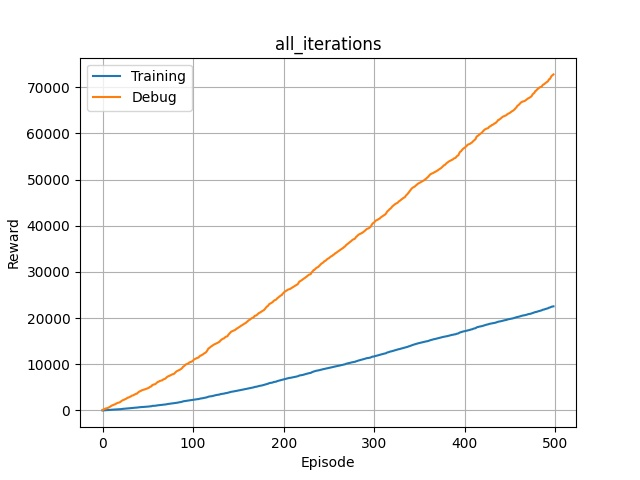
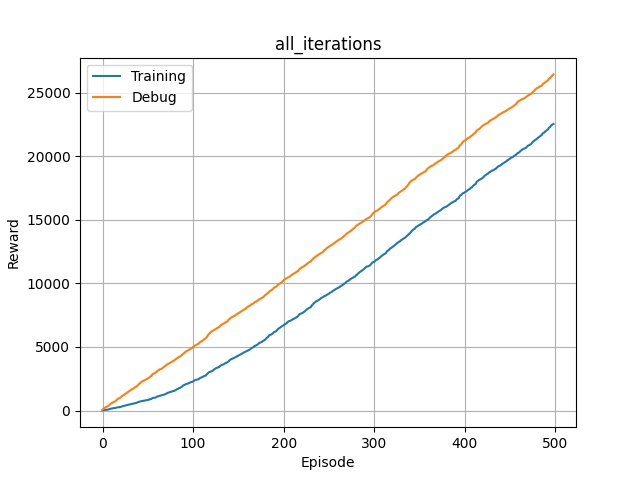
dlcf@home

diff --git a/model10.py b/model10.py
@@ -1,0 +1,125 @@
+import math
+
+
+def reward_function(params):
+
+    # Read all input parameters
+    all_wheels_on_track = params['all_wheels_on_track']
+    x = params['x']
+    y = params['y']
+    distance_from_center = params['distance_from_center']
+    is_left_of_center = params['is_left_of_center']
+    heading = params['heading']
+    progress = params['progress']
+    steps = params['steps']
+    speed = params['speed']
+    steering_angle = params['steering_angle']
+    track_width = params['track_width']
+    waypoints = params['waypoints']
+    closest_waypoints = params['closest_waypoints']
+    is_offtrack = params['is_offtrack']
+
+    reward = 1
+
+    #
+    # distance reward
+    distance_reward = 1e-3
+
+    # Calculate 3 markers that are at varying distances away from the center line
+    marker_1 = 0.1 * track_width
+    marker_2 = 0.25 * track_width
+    marker_3 = 0.5 * track_width
+    # Give higher reward if the car is closer to center line and vice versa
+    if distance_from_center <= marker_1:
+        distance_reward = 1.0
+    elif distance_from_center <= marker_2:
+        distance_reward = 0.5
+    elif distance_from_center <= marker_3:
+        distance_reward = 0.1
+    else:
+        reward = 1e-3  # likely crashed/ close to off track
+
+    reward += distance_reward
+
+    #
+    # direction reward
+    direction_reward = 1e-3
+    prev_point = waypoints[closest_waypoints[0]]
+    next_point = waypoints[closest_waypoints[1]]
+    i = divmod(closest_waypoints[1] + 1, len(waypoints))[1]
+    next_next_point = waypoints[i]
+
+    track_direction = math.atan2(next_point[1] - prev_point[1], next_point[0] - prev_point[0])
+    track_direction = math.degrees(track_direction)
+    track_direction_projected = math.atan2(next_next_point[1] - prev_point[1], next_next_point[0] - prev_point[0])
+    track_direction_projected = math.degrees(track_direction_projected)
+
+    direction_diff = abs(track_direction - heading)
+    direction_diff_projected = track_direction_projected - track_direction
+    if direction_diff > 180:
+        direction_diff = 360 - direction_diff
+
+    if direction_diff > 30:
+        direction_reward = -0.5 * reward
+    else:
+        if steering_angle == 0:
+            direction_reward = reward
+        elif 0 >= steering_angle > direction_reward and direction_reward <= 0:
+            direction_reward = 1.5 * reward
+        elif 0 < steering_angle < direction_reward and direction_reward > 0:
+            direction_reward = 1.5 * reward
+        else:
+            direction_reward = -0.5 * reward
+    reward += direction_reward
+
+    #
+    # speed reward
+    speed_reward = 1e-3  # default against 2 m/s
+    if closest_waypoints[0] < 21:
+        speed_reward = divmod(speed, 3)[1]
+    elif closest_waypoints[0] < 44:
+        speed_reward = divmod(speed, 1.5)[1]
+    elif closest_waypoints[0] < 50:
+        speed_reward = divmod(speed, 2)[1]
+    elif closest_waypoints[0] < 56:
+        speed_reward = divmod(speed, 1.5)[1]
+    elif closest_waypoints[0] < 66:
+        speed_reward = divmod(speed, 2)[1]
+    elif closest_waypoints[0] < 71:
+        speed_reward = divmod(speed, 1.5)[1]
+    elif closest_waypoints[0] < 80:
+        speed_reward = divmod(speed, 2)[1]
+    elif closest_waypoints[0] < 87:
+        speed_reward = divmod(speed, 1.5)[1]
+    elif closest_waypoints[0] < 104:
+        speed_reward = divmod(speed, 2)[1]
+    elif closest_waypoints[0] < 112:
+        speed_reward = divmod(speed, 1.5)[1]
+    elif closest_waypoints[0] < 117:
+        speed_reward = divmod(speed, 2)[1]
+    else:
+        pass
+
+    reward += speed_reward
+
+    #
+    # steps reward
+    track_length = 17.6
+    standard_speed = 1.2
+    step_reward = 1e-3
+    s = divmod(standard_speed * steps / 15, track_length)[1]
+    percentage_projected = 1e-3
+    try:
+        percentage_projected = 100 * s / track_length
+    except:
+        pass
+    if percentage_projected >= progress:
+        step_reward = 1
+    else:
+        step_reward = 1e-1
+    reward += step_reward
+
+    if not all_wheels_on_track:
+        reward = 1e-3
+
+    return float(reward)

diff --git a/model6_clone.py b/model6_clone.py
@@ -3,9 +3,9 @@ import math
 
 def reward_function(params):
     # Define constants
-    standard_speed = 1.5
-    optimal_speed = 2.0
-    fastest_speed = 2.5
+    standard_speed = 1.8
+    optimal_speed = 2.3
+    fastest_speed = 2.8
     track_length = 17.71
     laps = 3
 
@@ -24,6 +24,7 @@ def reward_function(params):
     waypoints = params['waypoints']
     closest_waypoints = params['closest_waypoints']
     is_offtrack = params['is_offtrack']
+    is_left_of_center = params['is_left_of_center']
 
     ## Define the default reward ##
     reward = 1
@@ -35,7 +36,7 @@ def reward_function(params):
     reward += distance_reward * DISTANCE_MULTIPLE
 
     ## Reward if speed is close to optimal speed ##
-    SPEED_DIFF_NO_REWARD = 1
+    SPEED_DIFF_NO_REWARD = 1.3
     SPEED_MULTIPLE = 2
     speed_diff = abs(optimal_speed - speed)
     if speed_diff <= SPEED_DIFF_NO_REWARD:
@@ -62,13 +63,8 @@ def reward_function(params):
     reward += steps_reward
 
     # Zero reward if obviously wrong direction (e.g. spin)
-    steps_forward = 2
-    pp = len(waypoints) + closest_waypoints[0] - steps_forward + 1
-    pp = divmod(pp, len(waypoints))[1]
-    np = closest_waypoints[0] + steps_forward + 1
-    np = divmod(np, len(waypoints))[1]
-    prev_point = waypoints[pp]
-    next_point = waypoints[np]
+    next_point = waypoints[closest_waypoints[1]]
+    prev_point = waypoints[closest_waypoints[0]]
 
     # Calculate the direction in radius, arctan2(dy, dx), the result is (-pi, pi) in radians
     track_direction = math.atan2(next_point[1] - prev_point[1], next_point[0] - prev_point[0])
@@ -87,11 +83,11 @@ def reward_function(params):
     if abs(steering_angle) > 15:
         reward = 1e-3
     else:
-        reward += math.cos(math.radians(steering_angle)) * 2
+        reward += math.cos(math.radians(steering_angle))
 
     # Zero reward of obviously too slow
     speed_diff_zero = optimal_speed - speed
-    if speed_diff_zero > 1:
+    if speed_diff_zero > 1.5:
         reward = 1e-3
 
     ## Incentive for finishing the lap in less steps ##
@@ -107,7 +103,7 @@ def reward_function(params):
     reward += finish_reward
 
     ## Zero reward if off track ##
-    if is_offtrack:
+    if all_wheels_on_track == False:
         reward = 1e-3
 
     # Always return a float value

diff --git a/functions_2d.py b/functions_2d.py
@@ -142,6 +142,14 @@ def test_2d_functions():
     x_int, y_int = interaction_point_of_2lines(l1, l2)
     print('the interaction point of 2 lines is [{}, {}]'.format(x_int, y_int))
 
+    sp = symmetrical_point_of_point_to_line([2, 3], 1, 1, 1)
+    print('the symmetrical point of [{}, {}] to line: {}*x + {}*y + {} is [{}, {}]'.format(2, 3,
+                                                                                           1, 1, 1,
+                                                                                           sp[0],
+                                                                                           sp[1]))
+    a, b, c = line_2p(sp, [3, -2])
+    print('the line function is {}*x + {}*y + {} = 0'.format(a, b, c))
+
 
 def verify_track_line():
     waypoints = [[3.2095088958740234, 0.6831344813108444],
@@ -324,5 +332,5 @@ def verify_track_line():
 
 
 if __name__ == '__main__':
-    # test_2d_functions()
-    verify_track_line()
+    test_2d_functions()
+    # verify_track_line()

diff --git a/reward_function_debugger.py b/reward_function_debugger.py
@@ -6,7 +6,8 @@ from functions_2d import *
 # from model6 import reward_function
 # from model8 import reward_function
 # from deep_racer import reward_function
-from model9 import reward_function
+# from model9 import reward_function
+from model10 import reward_function
 
 
 def read_csv_file(file_name, episode_num=-1):
